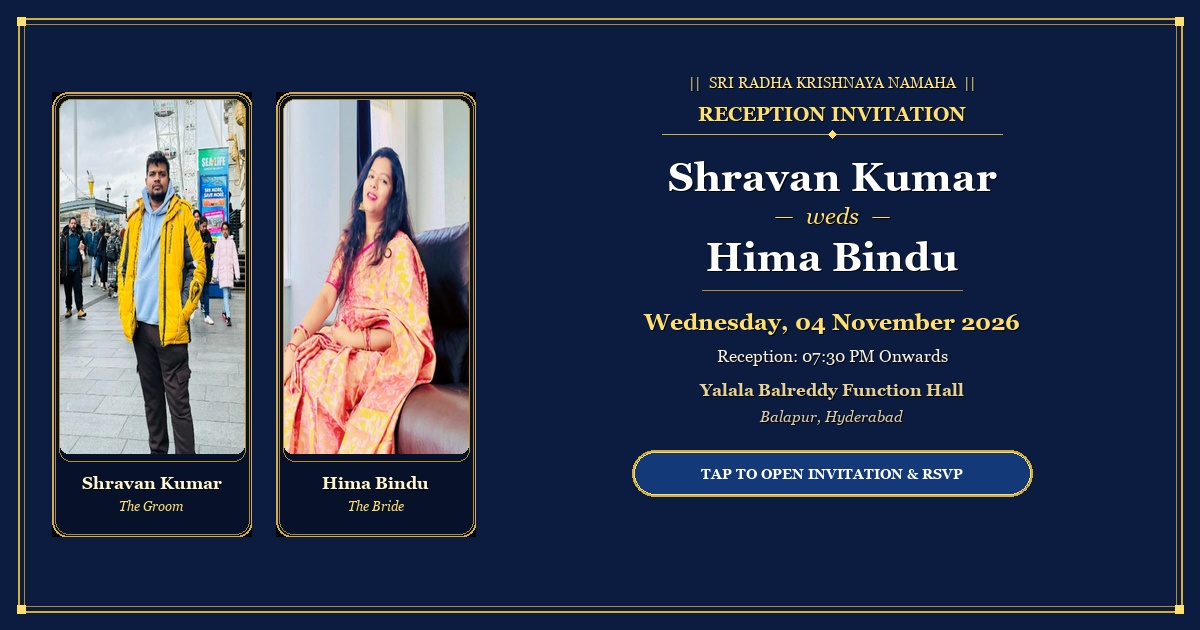
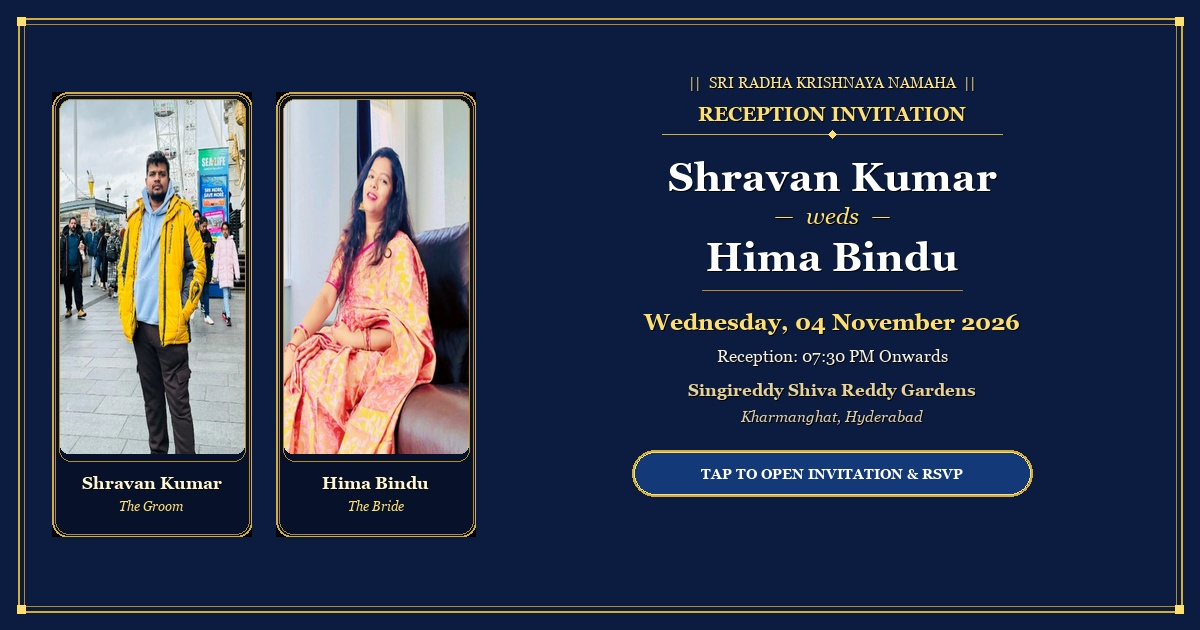
Update venue location to Singireddy Shiva Reddy Gardens, Kharmanghat, Hyderabad and refresh Google Maps integration

Changed region(s): [[0.555, 0.6032, 0.8325, 0.6937]]

diff --git a/index.html b/index.html
@@ -4,7 +4,7 @@
   <meta charset="UTF-8">
   <meta name="viewport" content="width=device-width, initial-scale=1.0, maximum-scale=1.0, user-scalable=no">
   <title>Shravan Kumar &amp; Hima Bindu | Reception Celebration</title>
-  <meta name="description" content="Together with their families, Anuradha &amp; Mohan Koramaina and Kalavathi &amp; Sesha Chary cordially invite you to celebrate the reception of Shravan Kumar &amp; Hima Bindu on Wednesday, 04 November 2026 from 07:30 PM onwards at Yalala Balreddy Function Hall, Balapur, Hyderabad. Tap to view the invitation and RSVP.">
+  <meta name="description" content="Together with their families, Anuradha &amp; Mohan Koramaina and Kalavathi &amp; Sesha Chary cordially invite you to celebrate the reception of Shravan Kumar &amp; Hima Bindu on Wednesday, 04 November 2026 from 07:30 PM onwards at Singireddy Shiva Reddy Gardens, Kharmanghat, Hyderabad. Tap to view the invitation and RSVP.">
 
   <!-- OpenGraph / Facebook / WhatsApp Social Share Meta -->
   <meta property="og:type" content="website" />
@@ -13,24 +13,24 @@
   <meta property="og:title" content="Shravan weds Hima Bindu — Reception Invitation 💍" />
   <meta
     property="og:description"
-    content="Together with their families, Anuradha &amp; Mohan Koramaina and Kalavathi &amp; Sesha Chary cordially invite you to celebrate the reception of Shravan Kumar &amp; Hima Bindu on Wednesday, 04 November 2026 from 07:30 PM onwards at Yalala Balreddy Function Hall, Balapur, Hyderabad. Tap to view the invitation and RSVP."
+    content="Together with their families, Anuradha &amp; Mohan Koramaina and Kalavathi &amp; Sesha Chary cordially invite you to celebrate the reception of Shravan Kumar &amp; Hima Bindu on Wednesday, 04 November 2026 from 07:30 PM onwards at Singireddy Shiva Reddy Gardens, Kharmanghat, Hyderabad. Tap to view the invitation and RSVP."
   />
-  <meta property="og:image" content="https://shravan-weds-anuradha.vercel.app/assets/shravan-hima-wedding-share.jpg?v=11" />
-  <meta property="og:image:secure_url" content="https://shravan-weds-anuradha.vercel.app/assets/shravan-hima-wedding-share.jpg?v=11" />
+  <meta property="og:image" content="https://shravan-weds-anuradha.vercel.app/assets/shravan-hima-wedding-share.jpg?v=12" />
+  <meta property="og:image:secure_url" content="https://shravan-weds-anuradha.vercel.app/assets/shravan-hima-wedding-share.jpg?v=12" />
   <meta property="og:image:type" content="image/jpeg" />
   <meta property="og:image:width" content="1200" />
   <meta property="og:image:height" content="630" />
   <meta property="og:image:alt" content="Shravan Kumar &amp; Hima Bindu Reception Invitation" />
-  <link rel="image_src" href="https://shravan-weds-anuradha.vercel.app/assets/shravan-hima-wedding-share.jpg?v=11" />
+  <link rel="image_src" href="https://shravan-weds-anuradha.vercel.app/assets/shravan-hima-wedding-share.jpg?v=12" />
 
   <!-- Twitter Card Meta -->
   <meta name="twitter:card" content="summary_large_image" />
   <meta name="twitter:title" content="Shravan weds Hima Bindu — Reception Invitation 💍" />
   <meta
     name="twitter:description"
-    content="Together with their families, Anuradha &amp; Mohan Koramaina and Kalavathi &amp; Sesha Chary cordially invite you to celebrate the reception of Shravan Kumar &amp; Hima Bindu on Wednesday, 04 November 2026 from 07:30 PM onwards at Yalala Balreddy Function Hall, Balapur, Hyderabad. Tap to view the invitation and RSVP."
+    content="Together with their families, Anuradha &amp; Mohan Koramaina and Kalavathi &amp; Sesha Chary cordially invite you to celebrate the reception of Shravan Kumar &amp; Hima Bindu on Wednesday, 04 November 2026 from 07:30 PM onwards at Singireddy Shiva Reddy Gardens, Kharmanghat, Hyderabad. Tap to view the invitation and RSVP."
   />
-  <meta name="twitter:image" content="https://shravan-weds-anuradha.vercel.app/assets/shravan-hima-wedding-share.jpg?v=11" />
+  <meta name="twitter:image" content="https://shravan-weds-anuradha.vercel.app/assets/shravan-hima-wedding-share.jpg?v=12" />
 
   <!-- Google Fonts: Luxury Serif, Romantic Script & Classic Lettering -->
   <link rel="preconnect" href="https://fonts.googleapis.com">
@@ -413,7 +413,7 @@
                 <i data-lucide="clock" class="pill-icon"></i> 07:30 PM Onwards
               </span>
               <span class="event-meta-pill">
-                <i data-lucide="map-pin" class="pill-icon"></i> Balapur, Hyderabad
+                <i data-lucide="map-pin" class="pill-icon"></i> Kharmanghat, Hyderabad
               </span>
             </div>
 
@@ -470,15 +470,15 @@
               <i data-lucide="map-pin" class="sec-icon"></i> Venue &amp; Directions
             </h4>
             <div class="modal-venue-card">
-              <h5 class="venue-title">Yalala Balreddy Function Hall</h5>
-              <p class="venue-addr">Yelmati Nagar, Balapur, Hyderabad, Telangana - 500005</p>
-              <p class="venue-landmark"><em>(Balapur, Hyderabad)</em></p>
+              <h5 class="venue-title">Singireddy Shiva Reddy Gardens</h5>
+              <p class="venue-addr">Padma Nagar Colony, Kharmanghat, Hyderabad, Telangana - 500097</p>
+              <p class="venue-landmark"><em>(Beside Karmanghat Hanuman Temple)</em></p>
             </div>
 
             <!-- Action Buttons -->
             <div class="modal-action-buttons">
               <a 
-                href="https://www.google.com/maps/search/?api=1&query=Yalala+Balreddy+Garden+Balapur+Hyderabad" 
+                href="https://www.google.com/maps/search/?api=1&query=Singireddy+Shiva+Reddy+Gardens+Karmanghat+Hyderabad" 
                 target="_blank" 
                 rel="noopener noreferrer" 
                 class="btn-modal-action btn-maps"
@@ -525,8 +525,8 @@
           <div class="venue-icon-circle">
             <i data-lucide="map-pin" class="venue-pin-icon"></i>
           </div>
-          <h3 class="venue-name">Yalala Balreddy Function Hall</h3>
-          <p class="venue-subname">Yelmati Nagar, Balapur, Hyderabad, Telangana - 500005</p>
+          <h3 class="venue-name">Singireddy Shiva Reddy Gardens</h3>
+          <p class="venue-subname">Padma Nagar Colony, Kharmanghat, Hyderabad, Telangana (Beside Karmanghat Hanuman Temple) - 500097</p>
           <div class="venue-meta-row">
             <span><i data-lucide="calendar"></i> Wednesday, 04 Nov 2026</span>
             <span><i data-lucide="clock"></i> Reception: 07:30 PM Onwards</span>
@@ -537,7 +537,7 @@
         <div class="venue-map-frame">
           <iframe
             title="Google Maps Location for Reception Venue"
-            src="https://maps.google.com/maps?q=Yalala+Balreddy+Garden+Balapur+Hyderabad&t=&z=15&ie=UTF8&iwloc=&output=embed"
+            src="https://maps.google.com/maps?q=Singireddy+Shiva+Reddy+Gardens+Karmanghat+Hyderabad&t=&z=15&ie=UTF8&iwloc=&output=embed"
             width="100%"
             height="220"
             style="border:0;"
@@ -549,7 +549,7 @@
 
         <div class="venue-actions">
           <a
-            href="https://www.google.com/maps/search/?api=1&query=Yalala+Balreddy+Garden+Balapur+Hyderabad"
+            href="https://www.google.com/maps/search/?api=1&query=Singireddy+Shiva+Reddy+Gardens+Karmanghat+Hyderabad"
             target="_blank"
             rel="noopener noreferrer"
             class="venue-directions-btn"

diff --git a/script.js b/script.js
@@ -681,7 +681,7 @@ function initEventDetailsModal() {
 function addToGoogleCalendar() {
   const title = encodeURIComponent("Reception: Shravan Kumar & Hima Bindu");
   const details = encodeURIComponent("Reception of Shravan Kumar & Hima Bindu with the divine blessings of Radha Krishna.");
-  const location = encodeURIComponent("Yalala Balreddy Function Hall, Yelmati Nagar, Balapur, Hyderabad, Telangana - 500005");
+  const location = encodeURIComponent("Singireddy Shiva Reddy Gardens, Padma Nagar Colony, Kharmanghat, Hyderabad, Telangana - 500097");
   // 04 Nov 2026 19:30 IST to 23:30 IST -> 14:00 UTC to 18:00 UTC
   const dates = "20261104T140000Z/20261104T180000Z";
   const gCalUrl = `https://calendar.google.com/calendar/render?action=TEMPLATE&text=${title}&dates=${dates}&details=${details}&location=${location}`;
@@ -862,7 +862,7 @@ function shareOnWhatsApp() {
   const brideParents = 'Kalavathi & Sesha Chary';
   const date = 'Wednesday, 04 November 2026';
   const reception = '07:30 PM Onwards';
-  const venue = 'Yalala Balreddy Function Hall, Yelmati Nagar, Balapur, Hyderabad, Telangana - 500005';
+  const venue = 'Singireddy Shiva Reddy Gardens, Kharmanghat, Hyderabad (Beside Karmanghat Hanuman Temple) - 500097';
   const link = 'https://shravan-weds-anuradha.vercel.app';
 
   const msg = `॥ श्री राधाकृष्णाभ्यां नमः ॥\n\n` +

diff --git a/generate_metadata_banner.py b/generate_metadata_banner.py
@@ -104,8 +104,8 @@ def generate_banners():
 
     draw_c('Wednesday, 04 November 2026', 308, f_date, bright_gold)
     draw_c('Reception: 07:30 PM Onwards', 346, f_time, (245, 240, 225))
-    draw_c('Yalala Balreddy Function Hall', 380, f_venue_bold, (230, 210, 150))
-    draw_c('Balapur, Hyderabad', 408, f_venue, (220, 205, 170))
+    draw_c('Singireddy Shiva Reddy Gardens', 380, f_venue_bold, (230, 210, 150))
+    draw_c('Kharmanghat, Hyderabad', 408, f_venue, (220, 205, 170))
 
     btn_w = 400
     btn_h = 46
